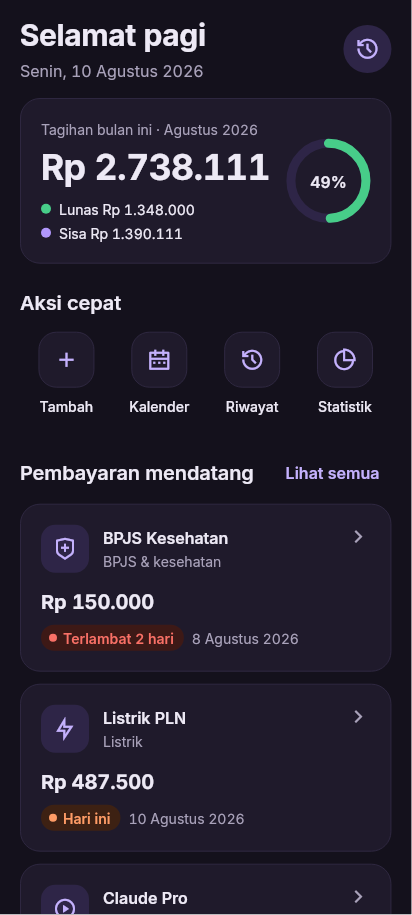
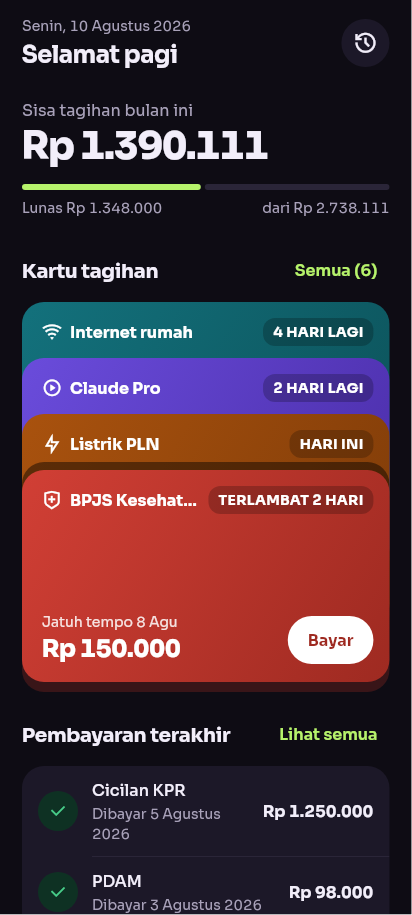
docs(design): document the Dompet design system (#77)
Closes #67

`DESIGN.md` ditulis ulang untuk gaya Dompet; badge dan screenshot README
diperbarui.

diff --git a/docs/DESIGN.md b/docs/DESIGN.md
@@ -1,18 +1,24 @@
-# B4Due design system
+# B4Due design system: Dompet
 
-A calm, trustworthy look with one brand colour (Plum), generous spacing and rounded cards.
+Bills are cards in a wallet. Each bill is a coloured **wallet card**, the most urgent one at the
+front; around them the app stays quiet: an ink-and-lavender page (light) or near-black (dark),
+large Sora numbers, full-pill buttons and a floating navigation pill with a round accent "+".
+People choose the theme (Terang / Gelap / Ikuti sistem), the accent colour and each bill's card
+colour.
+
 B4Due draws every control itself: there are **no Material or Cupertino widgets** in `lib/`
 (enforced by `test/ui/no_material_test.dart`). The app runs on `WidgetsApp` and the kit in
 `lib/ui/`:
 
 | File | Contents |
 |---|---|
-| `tokens.dart` | `Palette` (colours, light and dark) and `Tokens` (spacing, radii, motion) |
-| `theme.dart` | `AppText` (type scale), `B4ThemeScope`, `context.palette`, `context.text` |
+| `tokens.dart` | `Palette` (light and dark), `AccentColors` (the six accents), `Palette.walletCards`, `Tokens` (spacing, radii, motion) |
+| `theme.dart` | `AppText` (type scale), `B4ThemeScope` (brightness + accent), `context.palette`, `context.text` |
 | `icons.dart` | `RemixIcons`: the subset of Remix Icon the app uses |
 | `pressable.dart` | `Pressable`: the tap primitive behind every control |
-| `buttons.dart` | `B4Button` (primary, tonal, outline, ghost; destructive), `B4IconButton`, `B4TicketButton` |
-| `surfaces.dart` | `B4Card`, `B4ListGroup`, `B4ListRow`, `B4IconTile`, `B4Note`, `B4EmptyState` |
+| `buttons.dart` | `B4Button` (primary, tonal, outline, ghost; destructive), `B4IconButton`, `B4AddButton` |
+| `wallet.dart` | `B4WalletCard`, `B4WalletStack`, `B4CardBadge`, `B4ProgressBar` |
+| `surfaces.dart` | `B4Card` (panel), `B4ListGroup`, `B4ListRow`, `B4IconTile`, `B4Note`, `B4EmptyState` |
 | `controls.dart` | `B4Switch`, `B4SwitchRow`, `B4Chip`, `B4FilterTag` |
 | `text_field.dart` | `B4TextField`, `B4TextFormField`, `B4SearchField`, selection handles, text menu |
 | `pickers.dart` | `B4FieldButton`, `B4SelectField`, `B4MonthGrid`, date and time pickers |
@@ -21,144 +27,178 @@ B4Due draws every control itself: there are **no Material or Cupertino widgets**
 | `navigation.dart` | page transitions for go_router, `B4Expandable` |
 
 Widgets read colours with `context.palette` and styles with `context.text`, never hard-coded
-values. Import everything with `import '../ui/ui.dart';`.
-
-## Logo
-
-A white calendar card with an Ink (`#1F1A2E`) header and a Plum (`#6D28D9`) check mark, on a
-diagonal Violet (`#8B5CF6`) to deep Plum (`#4C1D95`) gradient. Sources: the adaptive-icon
-vectors in `android/app/src/main/res/drawable/ic_launcher_*.xml` (including a monochrome
-version for themed icons) and `tool/generate_icons.py`, which renders the same geometry as PNG
-for older Android, iOS and `docs/images/icon-512.png`. The notification icon is the same mark
-as a white silhouette, tinted Plum. The splash screen uses the page background (`#F8F6FB`
-light, `#14111C` dark). The logo is our own drawing; Remix Icon's licence does not allow its
-icons as a logo.
+values. Import everything with `import '../ui/ui.dart';`. A bill's card colours come from
+`bill.cardColors` (`lib/features/bills/presentation/bill_labels.dart`).
 
 ## Colour
 
-Plum was chosen because it collides with none of the status colours, so a coloured chip always
-means a state, never the brand. White on Plum is 7.1:1.
+### Page and controls
 
 | Role | Light | Dark | Use |
 |---|---|---|---|
-| Primary (Plum) | `#6D28D9` | `#B197FC` | filled buttons, FAB, selected chips and tabs, today in the calendar |
-| On primary | `#FFFFFF` | `#1A1033` | text and icons on Plum fills |
-| Primary text | `#6D28D9` | `#C4B1FD` | ghost buttons, icons, "≈ Rp …" estimates |
-| Primary soft | `#F0EAFB` | `#2E2547` | icon tiles, sheet close button, toast action |
-| Background | `#F8F6FB` | `#14111C` | page |
-| Surface | `#FFFFFF` | `#1F1A2B` | cards, sheets, dialogs, navigation bar |
-| Surface variant | `#F1EDF7` | `#2A2438` | input fills |
-| Outline / strong | `#E4DEEC` / `#CFC6DC` | `#2E2740` / `#453C5C` | card borders, dividers / outlined buttons, chips |
-| Text / secondary | `#1F1A2E` / `#625B70` | `#EDE9F5` / `#A9A2BA` | |
-| Inverse surface | `#1F1A2E` | `#EDE9F5` | chart tooltips |
+| Primary | `#15121D` (ink) | `#F2EEFA` | main buttons, selected tab capsule, selected chips, today in the calendar |
+| On primary | `#FFFFFF` | `#0E0C14` | text and icons on primary fills |
+| Primary soft | `#E9E5F0` | `#2A2538` | tonal buttons, icon circles |
+| Background | `#F3F1F7` | `#0E0C14` | page, splash |
+| Surface | `#FFFFFF` | `#1C1828` | panels, sheets, dialogs, navigation pill |
+| Surface variant | `#ECE8F2` | `#2A2538` | inputs, unselected chips, switch track |
+| Outline / strong | `#E4DFEC` / `#CBC4D8` | `#2A2538` / `#433B57` | dividers / outlined buttons |
+| Text / secondary | `#15121D` / `#5E5870` | `#F2EEFA` / `#A9A2BA` | |
+| Inverse surface | `#15121D` | `#F2EEFA` | toasts, chart tooltips |
 
-Charts use `Palette.chart`: Plum first, then sky, teal, amber, magenta, lavender, blue and grey.
+Panels have no outline: light mode lifts them with a soft shadow, dark mode with a lighter
+surface.
+
+### Accent
+
+The accent marks the add button, progress, the on switch and emphasised text. It is chosen in
+Pengaturan → Tampilan from six presets, each tuned per brightness so the fill, the text on it,
+the text version on the page and its tint all reach 4.5:1. There is no free colour picker.
+
+| Accent | Fill | Text on page (light / dark) |
+|---|---|---|
+| Limau (default) | `#B6F36B` | `#2F6B0C` / `#B6F36B` |
+| Langit | `#7CC7FF` | `#0B5A99` / `#7CC7FF` |
+| Koral | `#FF9A85` | `#B23A22` / `#FF9A85` |
+| Ungu | `#C4B1FF` | `#5B3FD0` / `#C4B1FF` |
+| Kuning | `#FFD166` | `#8A5A00` / `#FFD166` |
+| Mint | `#7FE3C3` | `#0E6E52` / `#7FE3C3` |
+
+### Wallet cards
+
+Eight diagonal gradients, the same in both themes, all with white text at 4.5:1 or more:
+violet, green, red, blue, orange, slate, magenta and teal (`Palette.walletCards`). A bill uses
+the colour chosen in its form (Warna kartu), or its category's: Listrik orange, Air and
+Pendidikan blue, Internet teal, Pulsa and Langganan violet, BPJS red, Pajak kendaraan and Lainnya
+slate, Cicilan magenta, Asuransi and Rumah green.
 
 ### Status
 
-Each bill has one status (`BillStatus`), shown as a coloured dot (calendar) and a chip with a
-dot and a label (cards). Colour is never the only signal: the chip always carries text such as
-"Terlambat 2 hari" or "Hari ini". **Mendatang** (upcoming) is deliberately neutral, so only
-states that need action are coloured.
+Each bill has one status (`BillStatus`), shown as a coloured dot (calendar), a translucent
+badge on its wallet card ("TERLAMBAT 2 HARI", "HARI INI") and a tinted chip elsewhere. Colour is
+never the only signal: the text always says what the status is. **Mendatang** (upcoming) is
+deliberately neutral, so only states that need action are coloured.
 
 | Status | Dot | Text / chip (light) | Text / chip (dark) |
 |---|---|---|---|
 | Lunas (paid) | `#17B26A` | `#067647` on `#DCFAE6` | `#47CD89` on `#0E3123` |
-| Mendatang (upcoming, > 3 days) | `#8E87A0` | `#524B63` on `#EFECF4` | `#BDB6CC` on `#2A2438` |
+| Mendatang (upcoming, > 3 days) | `#8E87A0` | `#524B63` on `#ECE8F2` | `#BDB6CC` on `#2A2538` |
 | Segera (due within 3 days) | `#F79009` | `#B54708` on `#FEF0C7` | `#FDB022` on `#3A2A08` |
 | Hari ini (today) | `#EF6820` | `#B93815` on `#FDEAD7` | `#FF9C66` on `#3D2113` |
 | Terlambat (overdue) | `#F04438` | `#B42318` on `#FEE4E2` | `#F97066` on `#3D1916` |
 | Dihapus (cancelled) | `#A39CB4` | – | – |
 
+Charts use `Palette.chart`: violet, green, red, blue, orange, magenta, teal and grey in light
+mode; lime first and lighter shades in dark mode.
+
 ## Typography
 
-Inter (bundled, SIL OFL 1.1) with tabular figures, so amounts and dates line up. Display 36/30
-bold for the monthly total and page titles, headline 24/20 semibold, title 18/16, body 16/14,
-labels 14. **Nothing is smaller than 14sp**, and every screen is checked at 160 % system font
-size (golden test `home_large_text.png`). Bottom-navigation labels scale down only when a label
-is too wide for its slot.
+[Sora](https://github.com/sora-xor/sora-font) (SIL OFL 1.1), vendored as static weights 400 to
+800 cut from the variable font, with tabular figures so amounts line up. Sora has no "≈", so
+`tool/add_sora_glyphs.py` adds one built from Sora's tilde, and `test/ui/font_coverage_test.dart`
+checks every weight can draw every character in the UI text.
+
+Display 38/30 extra-bold for the month's remaining total and page titles, headline 24/20 bold,
+title 18/16, body 16/14, labels 14. **Nothing is smaller than 14sp**, and every screen is
+checked at 160 % system font size (golden test `home_large_text.png`); wallet cards grow with
+the text.
 
 ## Icons
 
 [Remix Icon](https://remixicon.com) **v4.8.0**, the last release under the Apache License 2.0
 (later releases use a custom licence). The font is vendored in `assets/fonts/RemixIcon.ttf`
 with its licence beside it; release builds tree-shake it to the glyphs in
-`lib/ui/icons.dart`. Line icons everywhere; filled icons only for the selected tab.
+`lib/ui/icons.dart`. Line icons everywhere; filled icons only for the selected tab. Icons sit on
+circles, in a bill's card colours where they stand for that bill.
+
+## Logo
+
+A white calendar card with an ink header and a violet check mark on a violet gradient
+(`tool/generate_icons.py`, the adaptive-icon vectors in `android/app/src/main/res/drawable/`,
+iOS icons and `docs/images/icon-512.png`). The logo is our own drawing; Remix Icon's licence
+does not allow its icons as a logo. The splash uses the page background (`#F3F1F7` light,
+`#0E0C14` dark).
 
 ## Shape, spacing and motion
 
 | Token | Value |
 |---|---|
-| Page padding | 20 |
-| Section gap / card gap / list gap | 24 / 16 / 12 |
-| Card radius | 20 |
-| Button and input radius, height | 16, 56 (compact 44) |
-| Chip radius, height | 12, 40 |
-| Dialog radius | 24 |
-| Bottom sheet radius | 28 |
-| Bottom navigation | floating dock, radius 24, 12 from the sides |
+| Page padding | 22 |
+| Section gap / card gap / list gap | 28 / 16 / 12 |
+| Wallet card and panel radius | 22 |
+| Buttons | full pill (radius 28), height 56 (compact 44) |
+| Inputs | radius 18, height 56; search is a pill |
+| Chips | pill, height 40 |
+| Dialog / sheet radius | 28 / 30 |
+| Navigation pill | height 60, radius 30, 14 from the sides |
 | Touch target | at least 48 |
-| Motion | 200 ms (280 ms for sheets and page pushes), ease-out cubic |
+| Motion | 200 ms (300 ms for sheets and page pushes), ease-out cubic |
 
 Pressed controls scale down slightly (to 98 %, icon buttons 92 %) and tint, instead of a ripple.
-Cards have a 1px outline; light mode adds a soft shadow, dark mode relies on the outline.
 
 ## Navigation
 
-Five tabs: **Beranda**, **Kalender**, **Langganan**, **Statistik**, **Pengaturan**. The tabs sit in
-a dock floating above the page edge; the active tab gets a Plum marker hanging from the dock's
-top edge (like the tab on a calendar divider) above a filled icon. Each tab keeps its own scroll position. Detail pages
-(bill detail, form, history, PIN, battery guide) slide in above the tabs with a back button.
-Sheets slide up from the bottom with a title and a close button, and can also be dragged
-down to close.
+Five tabs: **Beranda**, **Kalender**, **Langganan**, **Statistik**, **Pengaturan**, as icons in a
+pill floating above the page; the active tab is a filled capsule that also shows its label when
+it fits (every tab keeps its spoken label). Beside the pill, the round accent **+** adds a bill
+from any tab. Each tab keeps its own scroll position. Detail pages slide in above the tabs with
+a raised back button. Sheets slide up with a title and a close button, and can be dragged down.
+
+## Screens
+
+- **Beranda**: the date and greeting, then **Sisa tagihan bulan ini** in large type over a
+  paid/remaining bar, then **Kartu tagihan**: the upcoming bills as a wallet stack. The front
+  card shows the status badge, the first line of the notes (often the customer number; hidden
+  when empty), the due date, the price and **Bayar** (with Batalkan); the cards behind show
+  their name and countdown. "Semua (n)" opens Langganan.
+- **Langganan**: search pill, category filter, and every bill as a compact wallet card with
+  Bayar. Swipe right marks paid (with undo), swipe left deletes (asks first).
+- **Detail tagihan**: a large wallet card (category, countdown, name, price), Sudah dibayar, then
+  a panel of details; long-press a row to copy its value.
+- **Form**: filled inputs with the label above; **Warna kartu** offers Otomatis plus the eight
+  card colours.
+- **Kalender**: month grid in a panel with status dots; a day opens a sheet of small wallet
+  cards with their reminder times.
+- **Statistik**: the monthly average in large type, the coming 30 days, the most expensive bill
+  as its wallet card, and the category and monthly charts.
+- **Pengaturan → Tampilan**: Tema (Terang / Gelap / Ikuti sistem, each with a preview) and
+  Warna aksen. Both apply at once, are read before the first frame and travel in backups.
 
 ## Components
 
-- **Subscription card**: category tile, name and category, price (foreign currency shows
-  "US$20,00 ≈ Rp 357.611"), status chip and due date. Swipe right: mark as paid (with undo).
-  Swipe left: delete (asks first).
-- **Monthly spending card**: this month's total, paid versus remaining, and a progress ring
-  (decorative; screen readers read the percentage once).
-- **Add button** (`B4TicketButton`): shaped like a bill ticket, with an icon stub, a dashed
-  perforation and notches top and bottom, then the label "Tambah tagihan".
-- **Switch**: a squircle track with a square knob that keeps its size; position and fill tell
-  the state, no icon in the knob.
-- **Chips**: a leading ring, hollow when off and filled when on, so the choice reads without
-  colour; selected chips are filled Plum, unselected ones a soft fill without a border.
-- **Text fields**: label above the field, Plum focus border, error message with an icon below.
-  Long-press opens the app's own Potong / Salin / Tempel / Pilih semua menu, a light card with
-  Plum labels.
-- **Pickers**: dropdowns are sheets listing the options; the date picker is a month grid of
-  rounded-square days with a tappable title for jumping years; the time picker has hour and
-  minute steppers (minutes in steps of five) plus quick times 07.00, 09.00, 12.00, 17.00 and
-  20.00. Screen readers adjust the steppers with swipe up/down.
-- **Dialogs**: an icon tile (red for destructive actions), title, text, and two buttons of equal
-  width: outlined cancel and filled confirm.
-- **Toast**: replaces snackbars. A light card with a status-coloured edge and icon tile at the
-  top of the screen (never under the keyboard, navigation bar or add button), optional action
-  such as "Batalkan", swipe up to dismiss.
-- **Loading**: three Plum dots pulsing in turn.
-- **PIN pad**: rounded-square keys, not the round keys of a system lock screen.
-- **Empty state**: illustration tile, title, one sentence, one primary action.
-- **Detail rows**: long-press copies the value (handy for a customer number in the notes).
+- **Switch**: a pill track that fills with the accent, with a dark knob that keeps its size.
+- **Chips**: pills with a leading ring, hollow when off and filled when on, so the choice reads
+  without colour; selected chips are filled with the primary colour.
+- **Text fields**: label above, ink focus border, error message with an icon below. Long-press
+  opens the app's own Potong / Salin / Tempel / Pilih semua menu.
+- **Pickers**: dropdowns are sheets; the date picker is a month grid of rounded-square days; the
+  time picker has hour and minute steppers plus quick times 07.00, 09.00, 12.00, 17.00 and
+  20.00.
+- **Dialogs**: an icon circle (red for destructive actions), title, text and two equal pills.
+- **Toast**: an inverted pill that drops in at the top with a status circle and an optional
+  accent action such as "Batalkan"; swipe up to dismiss.
+- **Loading**: three dots pulsing in turn.
+- **PIN pad**: raised rounded-square keys, not the round keys of a system lock screen.
 
 ## Accessibility (WCAG AA)
 
-- Every text/background pair the kit draws is checked at 4.5:1 or more, in both themes
-  (`test/ui/palette_contrast_test.dart`).
-- Status dots use the bright shades; status text uses darker (light mode) or lighter (dark mode)
-  shades on a tinted chip to reach 4.5:1.
+- Every text/background pair the kit draws is checked at 4.5:1 or more in both themes and with
+  every accent, and white text on every wallet card too (`test/ui/palette_contrast_test.dart`).
+- Status text uses darker (light mode) or lighter (dark mode) shades on a tinted chip, or white
+  on a translucent badge on a wallet card.
 - Swipe backgrounds use `#067647` (paid) and `#B42318` (delete) behind white icons and text.
-- Icon-only buttons always have a spoken label; switches and selected chips report their state.
+- Icon-only buttons and navigation tabs always have a spoken label; switches and selected chips
+  report their state.
 - Minimum text size is 14sp. Touch targets are at least 48dp.
 
 ## Not the platform look
 
 Being drawn by the app is not enough; controls must not *look* like Android (Material) or iOS
-defaults either. So there is no ripple, no pill navigation indicator, no thumb-growing switch,
-no extended FAB, no check-mark filter chips, no drag handle on sheets, no right-aligned text
-buttons in dialogs, no dark snackbar, no spinning arc, no wheel or clock time picker, and no
-round calendar-day or PIN keys. New components follow the same rule.
+defaults either. So there is no ripple, no M3 navigation bar with a pill behind a labelled icon,
+no thumb-growing switch, no extended FAB, no check-mark filter chips, no outlined white cards,
+no drag handle on sheets, no right-aligned text buttons in dialogs, no dark snackbar at the
+bottom, no spinning arc, no wheel or clock time picker, and no round calendar-day or PIN keys.
+New components follow the same rule.
 
 The only system UI left is what Android itself draws and the app cannot replace: the
 fingerprint prompt, the file picker for backups, the share sheet and notifications.
@@ -169,4 +209,5 @@ fingerprint prompt, the file picker for backups, the share sheet and notificatio
   the notification opens the bill).
 - Swipe left deletes (with confirmation) instead of archiving; one-off bills are archived
   automatically when paid.
-- Service logos and payment-method fields are not included; cards show a category icon.
+- Service logos and payment-method fields are not included; cards show a category icon and
+  colour.

diff --git a/README.md b/README.md
@@ -11,7 +11,7 @@
 
 <p align="center">
   <a href="https://github.com/ryanffirdaus/b-4-due/actions/workflows/ci.yml"><img src="https://github.com/ryanffirdaus/b-4-due/actions/workflows/ci.yml/badge.svg" alt="CI"></a>
-  <a href="LICENSE"><img src="https://img.shields.io/badge/lisensi-MIT-6d28d9" alt="Lisensi MIT"></a>
+  <a href="LICENSE"><img src="https://img.shields.io/badge/lisensi-MIT-15121d" alt="Lisensi MIT"></a>
 </p>
 
 <p align="center"><a href="#english">English below</a></p>
